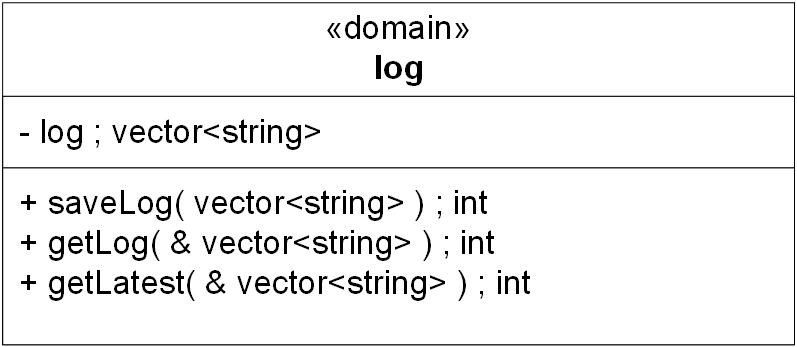
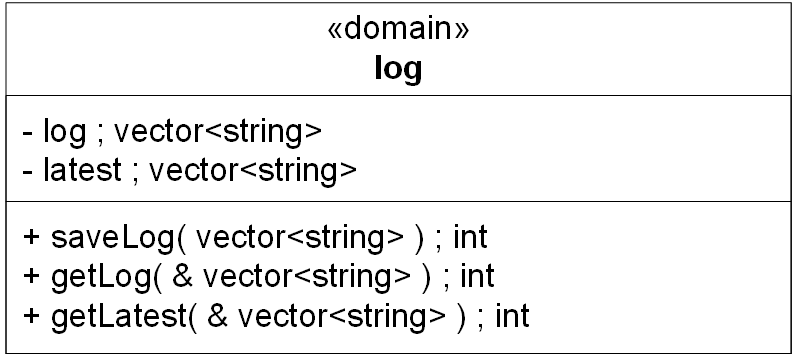
sw_domain og controllers continued...
snart done! mangler lidt i domain

Changed region(s): [[0.0, 0.0, 1.0, 1.0], [0.3915, 0.0576, 0.6023, 0.1153]]

diff --git a/Projektdokumentation/filer/design/sw_devControllers.tex b/Projektdokumentation/filer/design/sw_devControllers.tex
@@ -15,7 +15,7 @@
 int menuAddRemove( ) const \\
 \textbf{Parametre:} Modtager ingen parametre \\
 \textbf{Returværdi:} 0 ved succes ellers negativ i overenstemmelse med fejl-listen \\
-\textbf{Beskrivelse:} metoden skal styre forløbet i UC1: tilføj fjern.\\
+\textbf{Beskrivelse:} Modtager information fra brugeren omkring enhed, verificere enheden over SPI netværket og gemme information i databasen..\\
 
 \begin{figure}[htbp] \centering
 {\includegraphics[scale=1.5]{filer/design/Klassediagrammer/sw_config}}
@@ -31,7 +31,7 @@ int menuAddRemove( ) const \\
 int menuConfig( ) const \\
 \textbf{Parametre:} Modtager ingen parametre \\
 \textbf{Returværdi:} 0 ved succes ellers negativ i overenstemmelse med fejl-listen \\
-\textbf{Beskrivelse:} metoden skal styre forløbet i UC1: tilføj fjern.\\
+\textbf{Beskrivelse:} Modtager information fra brugeren omkring enhed og parametre. Parametrene skrives til den pågældende enhed på SPI netværket.\\
 
 \begin{figure}[htbp] \centering
 {\includegraphics[scale=1.5]{filer/design/Klassediagrammer/sw_onOff}}
@@ -44,12 +44,12 @@ int menuConfig( ) const \\
 {\centering
 \textbf{onOff}\par
 }
-\textbf{Ansvar:} at styre forløbet i UC3: Aktiver / deajtuver. \
+\textbf{Ansvar:} at styre forløbet i UC3: Aktiver / deaktiver. \
 
 int menuOnOff( ) const \\
 \textbf{Parametre:} Modtager ingen parametre \\
 \textbf{Returværdi:} 0 ved succes ellers negativ i overenstemmelse med fejl-listen \\
-\textbf{Beskrivelse:} metoden skal styre forløbet i UC1: tilføj fjern.\\
+\textbf{Beskrivelse:} Modtager information fra brugeren omkring hvilken enhed som ønskes aktiveret eller deaktiveret. Enheden modtager informationen over SPI netværket.\\
 
 \begin{figure}[htbp] \centering
 {\includegraphics[scale=1.5]{filer/design/Klassediagrammer/sw_loadData}}
@@ -65,7 +65,7 @@ int menuOnOff( ) const \\
 int menuloadData( ) \\
 \textbf{Parametre:} Modtager ingen parametre \\
 \textbf{Returværdi:} 0 ved succes ellers negativ i overenstemmelse med fejl-listen \\
-\textbf{Beskrivelse:} metoden skal styre forløbet i UC1: tilføj fjern.\\
+\textbf{Beskrivelse:} Sættes igang med et interrupt styret af en timer. Henter log over SPI netværket og gemmer den.\\
 
 \begin{figure}[htbp] \centering
 {\includegraphics[scale=1.5]{filer/design/Klassediagrammer/sw_status}}
@@ -83,7 +83,7 @@ int menuloadData( ) \\
 int menuStatus( ) const \\
 \textbf{Parametre:} Modtager ingen parametre \\
 \textbf{Returværdi:} 0 ved succes ellers negativ i overenstemmelse med fejl-listen \\
-\textbf{Beskrivelse:} metoden skal styre forløbet i UC1: tilføj fjern.\\
+\textbf{Beskrivelse:} Henter den seneste log i hukommelsen og viser brugeren den, for den ønskede enhed.\\
 
 \begin{figure}[htbp] \centering
 {\includegraphics[scale=1.5]{filer/design/Klassediagrammer/sw_logView}}
@@ -99,5 +99,5 @@ int menuStatus( ) const \\
 int menuLog( ) const \\
 \textbf{Parametre:} Modtager ingen parametre \\
 \textbf{Returværdi:} 0 ved succes ellers negativ i overenstemmelse med fejl-listen \\
-\textbf{Beskrivelse:} metoden skal styre forløbet i UC1: tilføj fjern.\\
+\textbf{Beskrivelse:} Henter hele loggen i hukommelsen og viser brugeren den, for den ønskede enhed.\\
 

diff --git a/Projektdokumentation/filer/design/sw_domain.tex b/Projektdokumentation/filer/design/sw_domain.tex
@@ -1,0 +1,51 @@
+%% SW design: klassebeskrivelse devkit domain klasser
+\newpage
+
+\begin{figure}[htbp] \centering
+{\includegraphics[scale=1.5]{filer/design/Klassediagrammer/sw_unitDB}}
+\caption{klassediagram unitDB}
+\label{fig:unitDB klassediagram}
+\end{figure} 
+
+{\centering
+\textbf{unitDB}\par
+}
+\textbf{Ansvar:} at styre forløbet i UC1: Tilføj / fjern enhed. \
+
+int getUnits( \& int array, \& int size ) \\
+\textbf{Parametre:}  \\
+\textbf{Returværdi:} 0 ved succes ellers negativ i overenstemmelse med fejl-listen \\
+\textbf{Beskrivelse:} \\
+
+int saveUnit( int adresse, int nr ) \\
+\textbf{Parametre:}  \\
+\textbf{Returværdi:} 0 ved succes ellers negativ i overenstemmelse med fejl-listen \\
+\textbf{Beskrivelse:} .\\
+
+\begin{figure}[htbp] \centering
+{\includegraphics[scale=1.5]{filer/design/Klassediagrammer/sw_log}}
+\caption{klassediagram log}
+\label{fig:log klassediagram}
+\end{figure} 
+
+{\centering
+\textbf{log}\par
+}
+\textbf{Ansvar:} Gemme information loggen til senere brug. \
+
+int saveLog( vector<string> ) \\
+\textbf{Parametre:} Modtager en vector af typen string. \\
+\textbf{Returværdi:} 0 ved succes ellers negativ i overenstemmelse med fejl-listen \\
+\textbf{Beskrivelse:} Modtager log fra enhed og skriver den over i den samlede log og gemmer den i latest \\
+
+int getLog( \& vector<string> )  \\
+\textbf{Parametre:} Modtager en adresse til en vector af typen string. \\
+\textbf{Returværdi:} 0 ved succes ellers negativ i overenstemmelse med fejl-listen \\
+\textbf{Beskrivelse:} .\\
+
+int getLatest( \& vector<string> ) \\
+\textbf{Parametre:} Modtager en adresse til en vector af typen string.  \\
+\textbf{Returværdi:} 0 ved succes ellers negativ i overenstemmelse med fejl-listen \\
+\textbf{Beskrivelse:} .\\
+
+

diff --git a/Projektdokumentation/filer/SWdesign.tex b/Projektdokumentation/filer/SWdesign.tex
@@ -13,3 +13,5 @@ Her følger klassebeskrivelser for de udledte klasser fra applikationsmodellerne
 \input{filer/design/sw_klasseSPI}
 
 \input{filer/design/sw_devControllers}
+
+\input{filer/design/sw_domain}
